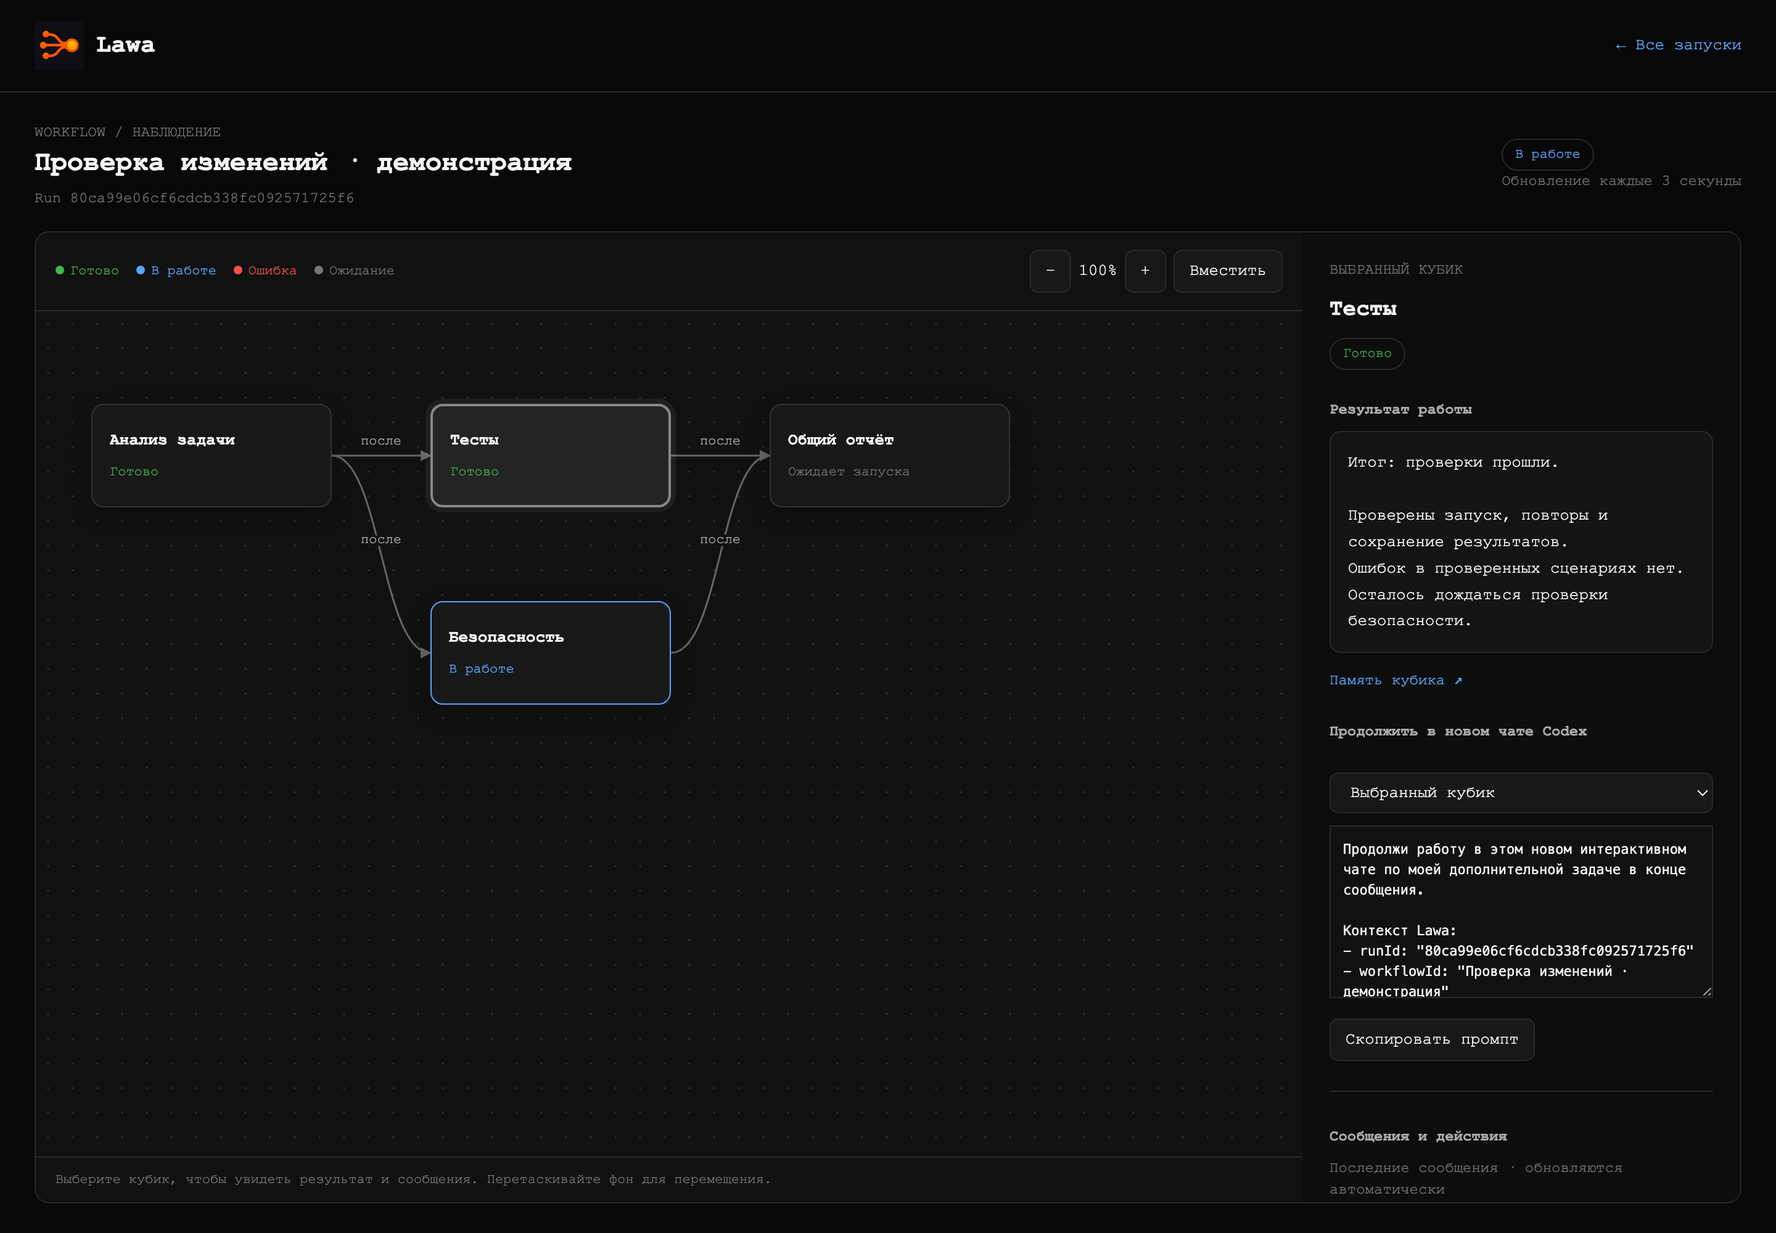
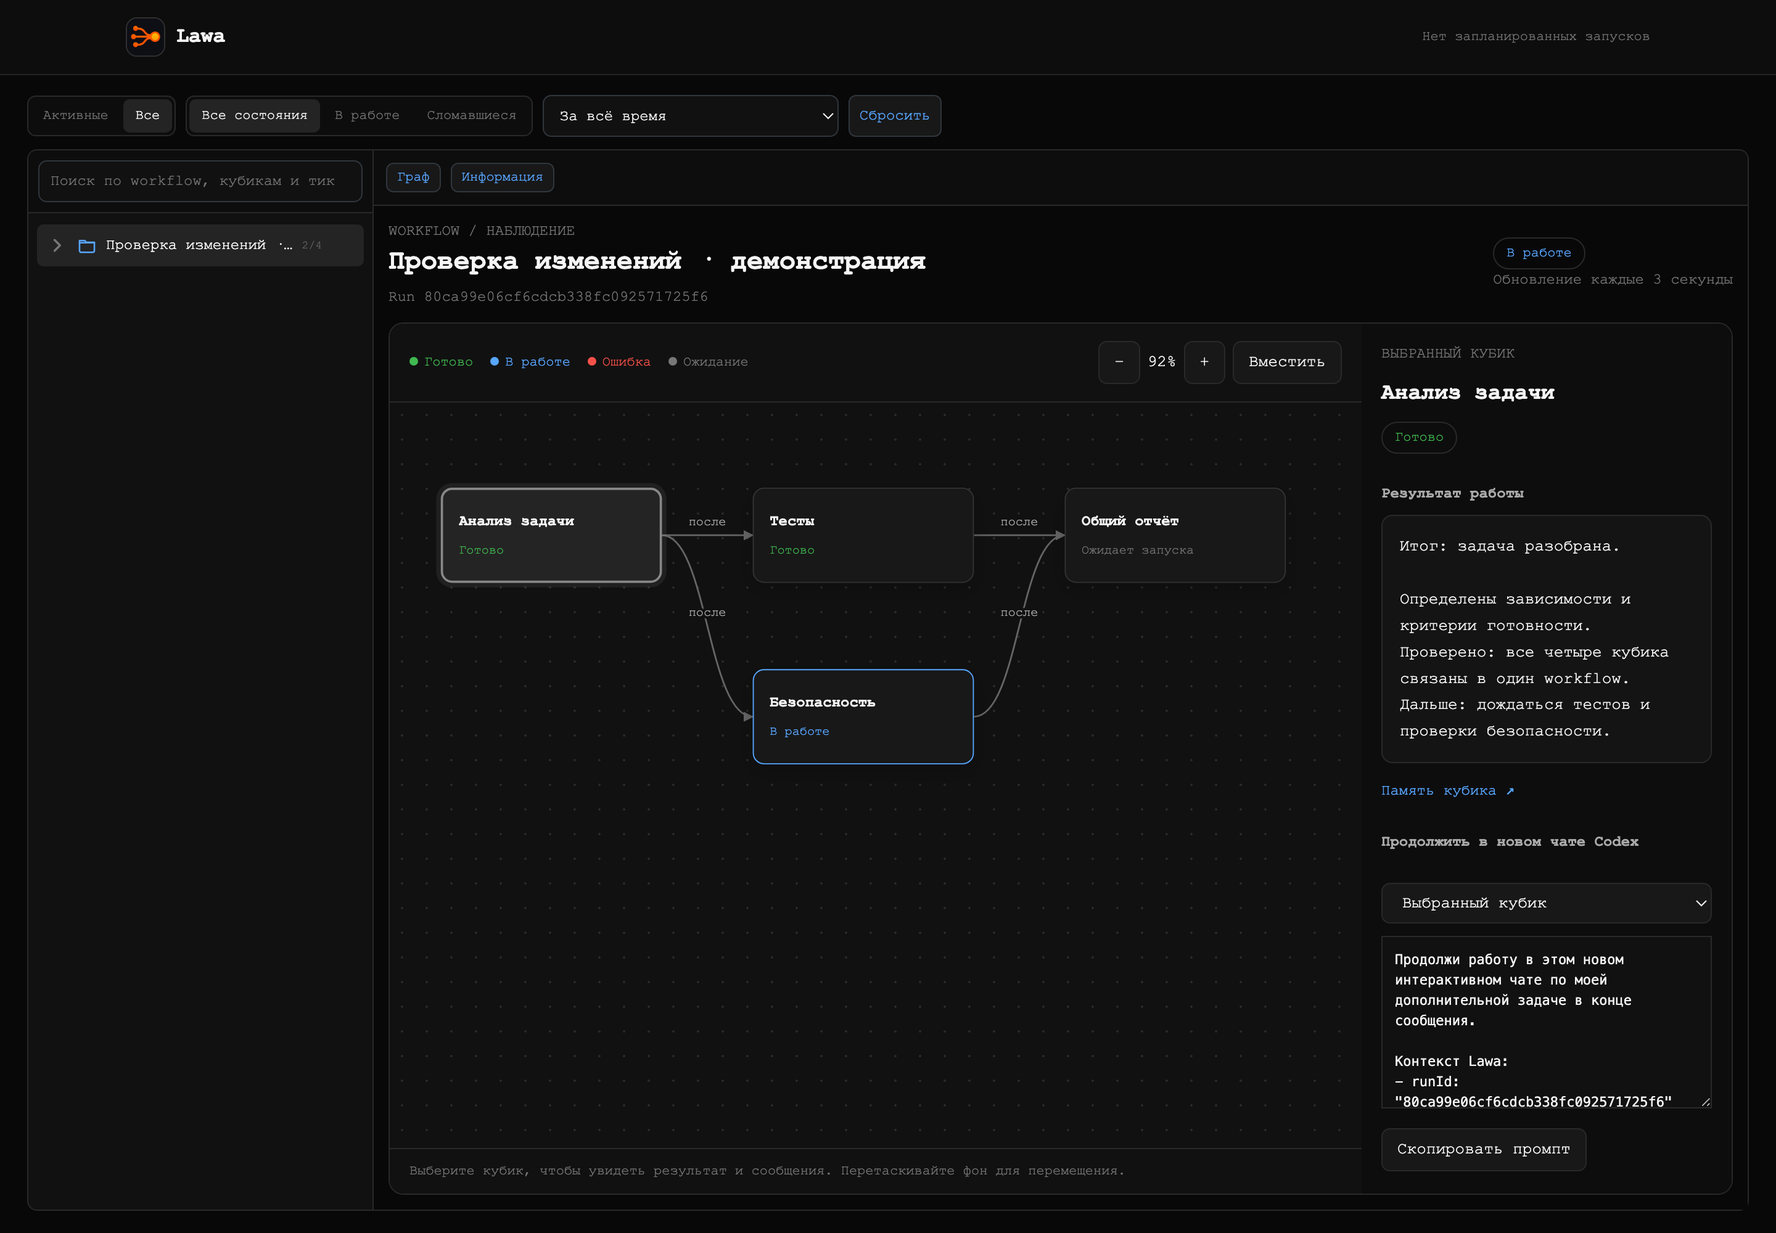
Show interactive workflow graph on the main dashboard

diff --git a/internal/dashboard/dashboard.html b/internal/dashboard/dashboard.html
@@ -22,6 +22,13 @@
     .schedule-backdrop{position:fixed;inset:0;z-index:30;background:#0009}.schedule-panel{position:fixed;z-index:31;top:0;right:0;width:min(460px,100vw);height:100vh;border-left:1px solid #303030;background:#0d0d0d;box-shadow:-18px 0 50px #000b;display:flex;flex-direction:column}.schedule-panel-header{display:flex;align-items:center;gap:12px;padding:17px 18px;border-bottom:1px solid var(--line)}.schedule-heading{min-width:0;flex:1}.schedule-heading h2{margin:0;color:var(--text);font-size:18px;line-height:1.3}.schedule-count{color:var(--muted);font-size:10px}.schedule-close{width:30px;height:30px;min-width:30px;min-height:30px;flex:0 0 30px;padding:0;justify-content:center;font-size:17px;line-height:1}.schedule-list{list-style:none;margin:0;padding:5px 18px 32px;overflow:auto}.schedule-item{padding:14px 0;border-bottom:1px solid #242424}.schedule-item:last-child{border-bottom:0}.schedule-item-top{display:flex;align-items:baseline;justify-content:space-between;gap:14px}.schedule-workflow{min-width:0;overflow-wrap:anywhere;font-size:12px;font-weight:700}.schedule-relative{flex:0 0 auto;color:#9bd0ff;font-size:10px}.schedule-relative.overdue{color:#ffb86b}.schedule-absolute{display:block;margin-top:5px;color:#aaa;font-size:10px}.schedule-details{display:block;margin-top:3px;color:var(--muted);font-size:9px;line-height:1.5;overflow-wrap:anywhere}.drawer-open{overflow:hidden}
     .trace-backdrop{position:fixed;inset:0;background:#0008;z-index:20}.trace-panel{position:fixed;z-index:21;top:0;right:0;width:min(720px,92vw);height:100vh;background:#0d0d0d;border-left:1px solid var(--line);box-shadow:-18px 0 50px #000a;display:flex;flex-direction:column}.trace-header{display:flex;align-items:flex-start;gap:12px;padding:16px;border-bottom:1px solid var(--line)}.trace-heading{min-width:0;flex:1}.trace-heading h2{font-size:16px;line-height:1.3;margin:0}.trace-status,.trace-note{display:block;color:var(--muted);font-size:10px;margin-top:3px}.trace-note{color:#b58b55}.trace-close{font-size:18px;min-width:32px;justify-content:center}.trace-list{padding:13px 16px 40px;overflow:auto;display:flex;flex-direction:column;gap:9px}.trace-item{border:1px solid var(--line);border-radius:7px;background:#131313;padding:9px 11px}.trace-item-header{display:flex;justify-content:space-between;gap:12px;color:var(--muted);font-size:10px;margin-bottom:6px}.trace-item pre{margin:0;color:#ddd;font-size:12px;line-height:1.5;white-space:pre-wrap;overflow-wrap:anywhere}.trace-empty{color:var(--muted);padding:30px;text-align:center}.hidden{display:none!important}
     @media(max-width:720px){.app-header-inner{padding:9px 12px;gap:10px}.brand{gap:7px}.brand-name{font-size:15px}.environment-pill{display:none}.next-run-pill{max-width:72vw;padding-left:9px}.next-run-workflow{font-size:10px}.next-run-time{font-size:9px}main{padding:12px}.top-controls{flex-wrap:wrap}.period-filter{width:100%}.pagination{order:5;width:100%;justify-content:flex-start;margin-left:0}.inspector-body{grid-template-columns:1fr;grid-template-rows:minmax(120px,45%) minmax(0,1fr)}.inspector-tree{border-right:0;border-bottom:1px solid var(--line)}.inspector-details{min-height:0;padding:18px 14px}.children{margin-left:7px;padding-left:7px}.fact-grid{grid-template-columns:1fr;gap:2px}.fact-grid dd{margin-bottom:8px}.trace-panel{width:100vw}}
+  /* Граф занимает правую панель; iframe живёт вне заменяемого polling-контейнера. */
+    main{max-width:none}.inspector-body{grid-template-columns:280px minmax(0,1fr)}
+    .inspector-details.graph-mode{display:flex;flex-direction:column;padding:0;overflow:hidden}
+    .inspector-view{display:flex;gap:8px;padding:10px;border-bottom:1px solid var(--line)}
+    .graph-slot{flex:1;min-height:0}.graph-mode .inspector-detail{display:none}
+    .graph-frame{position:fixed;border:0;background:var(--bg);z-index:1}
+    @media(max-width:720px){.inspector-body{grid-template-columns:1fr;grid-template-rows:150px minmax(0,1fr)}}
   </style>
 </head>
 <body data-refresh="{{.Refresh}}"><div data-dashboard-content>
@@ -57,7 +64,7 @@
         <form class="inspector-search" method="get" data-search-form><input type="hidden" name="view" value="{{.Filter.Scope}}"><input type="hidden" name="states" value="{{.Filter.States}}"><input type="hidden" name="root" value="{{.Filter.RootID}}"><input type="hidden" name="period" value="{{.Filter.Period}}"><label><span class="sr-only">Поиск</span><input class="control" type="search" name="q" value="{{.Filter.Query}}" placeholder="Поиск по workflow, кубикам и тикетам…" maxlength="300" data-search-input></label></form>
         <div class="tree-scroll"><ul class="workflows">{{if .Filter.Focused}}<li class="workflow-item"><button class="tree-row parent-row" type="button" data-root-target="{{.Filter.FocusParentID}}"><svg class="node-icon folder-icon" viewBox="0 0 24 24" fill="none" stroke="currentColor" stroke-width="1.8" stroke-linecap="round" stroke-linejoin="round" aria-hidden="true"><path d="M3.5 6.5h6l2 2h9v9.5a2 2 0 0 1-2 2h-13a2 2 0 0 1-2-2z"></path><path d="M3.5 9h17"></path></svg><span class="tree-label">../</span></button></li>{{end}}{{range .Roots}}{{template "run" .}}{{end}}</ul>{{if not .Roots}}<div class="empty inspector-empty">{{.EmptyMessage}}</div>{{end}}</div>
       </section>
-      <section class="inspector-details" aria-live="polite">{{if .Roots}}{{range .Roots}}{{template "run-details" .}}{{end}}{{else}}<div class="empty inspector-empty">Нет выбранного workflow.</div>{{end}}</section>
+      <section class="inspector-details" aria-live="polite"><nav class="inspector-view hidden" data-inspector-view aria-label="Вид workflow"><button class="action" data-workflow-view="graph">Граф</button><button class="action" data-workflow-view="info">Информация</button></nav><div class="graph-slot hidden" data-graph-slot></div>{{if .Roots}}{{range .Roots}}{{template "run-details" .}}{{end}}{{else}}<div class="empty inspector-empty">Нет выбранного workflow.</div>{{end}}</section>
     </div>
   </div>{{else}}<div class="empty">{{.EmptyMessage}}</div>{{end}}
 </main>
@@ -72,6 +79,7 @@
   <header class="trace-header"><div class="trace-heading"><h2 data-trace-title>Работа агента</h2><span class="trace-status" data-trace-status>Ожидание данных…</span><span class="trace-note">Приватный вывод: сообщения и команды могут содержать секреты.</span></div><button class="action trace-close" type="button" data-trace-close aria-label="Закрыть">×</button></header>
   <div class="trace-list" data-trace-list><div class="trace-empty">Выберите выполняющийся шаг.</div></div>
 </aside>
+<iframe class="graph-frame hidden" data-graph-frame title="Интерактивный граф выбранного workflow"></iframe>
 <script>
   const key='lawa-dashboard-open:';
   const searchActive={{.Filter.HasActiveQuery}};
@@ -108,16 +116,50 @@
   // Выбранный узел хранится вне заменяемого polling-контейнера. После обновления
   // серверных данных инспектор возвращает прежний workflow или кубик, если он всё
   // ещё проходит фильтр; иначе безопасно выбирает первый доступный узел.
+  let workflowView='graph';
+  const graphFrame=document.querySelector('[data-graph-frame]');
+  // Постоянный iframe сохраняет свой документ при замене dashboard через polling.
+  // Его границы повторяют пустую область панели; он не перехватывает вкладки,
+  // фильтры и модальные окна. Скрытый граф выгружается, прекращая его polling.
+  const positionGraph=()=>{
+    const slot=document.querySelector('[data-graph-slot]:not(.hidden)');
+    if(!slot)return;
+    const rect=slot.getBoundingClientRect();
+    Object.assign(graphFrame.style,{left:rect.left+'px',top:rect.top+'px',width:rect.width+'px',height:rect.height+'px'});
+  };
+  const graphObserver=new ResizeObserver(positionGraph);
+  window.addEventListener('resize',positionGraph);
+  window.addEventListener('scroll',positionGraph,true);
+  const showWorkflowGraph=(root,detail)=>{
+    const panel=root.querySelector('.inspector-details'), tabs=root.querySelector('[data-inspector-view]'), slot=root.querySelector('[data-graph-slot]');
+    const runID=detail?.dataset.inspectorDetail?.startsWith('run:')&&detail.dataset.inspectorDetail.slice(4);
+    const available=runID&&location.pathname!=='/preview';
+    const active=available&&workflowView==='graph';
+    tabs?.classList.toggle('hidden',!available);slot?.classList.toggle('hidden',!active);
+    panel?.classList.toggle('graph-mode',!!active);graphFrame.classList.toggle('hidden',!active);
+    root.querySelectorAll('[data-workflow-view]').forEach(button=>{
+      button.setAttribute('aria-pressed',String(button.dataset.workflowView===workflowView));
+      button.onclick=()=>{workflowView=button.dataset.workflowView;selectInspector(root,inspectorSelection);};
+    });
+    graphObserver.disconnect();
+    if(active){
+      const src='/graph/'+encodeURIComponent(runID)+'?embed=1';
+      if(graphFrame.getAttribute('src')!==src)graphFrame.src=src;
+      graphObserver.observe(slot);positionGraph();
+    }else graphFrame.removeAttribute('src');
+  };
   let inspectorSelection='';
   const selectInspector=(root,requested)=>{
     const selectors=[...root.querySelectorAll('[data-inspector-select]')];
     const details=[...root.querySelectorAll('[data-inspector-detail]')];
-    if(!selectors.length||!details.length)return;
+    if(!selectors.length||!details.length){showWorkflowGraph(root,null);return;}
     let selected=selectors.find(item=>item.dataset.inspectorSelect===requested);
     if(!selected)selected=selectors[0];
+    if(inspectorSelection!==selected.dataset.inspectorSelect)workflowView='graph';
     inspectorSelection=selected.dataset.inspectorSelect;
     selectors.forEach(item=>{const active=item===selected;item.classList.toggle('is-selected',active);if(active)item.setAttribute('aria-current','true');else item.removeAttribute('aria-current');});
     details.forEach(item=>item.classList.toggle('hidden',item.dataset.inspectorDetail!==inspectorSelection));
+    showWorkflowGraph(root,details.find(item=>item.dataset.inspectorDetail===inspectorSelection));
   };
   const changeRoot=id=>{const target=new URL(location.href);if(id)target.searchParams.set('root',id);else target.searchParams.delete('root');target.searchParams.delete('page');location.assign(target);};
   const panel=document.querySelector('[data-trace-panel]');

diff --git a/internal/dashboard/graph.html b/internal/dashboard/graph.html
@@ -4,6 +4,8 @@
 /* Общая палитра dashboard: нейтральные поверхности, цвет обозначает статус. */
 :root{color-scheme:dark;--bg:#080808;--surface:#111;--button:#181818;--button-hover:#222;--line:#292929;--text:#f5f5f5;--muted:#777;--link:#58a6ff;--red:#f85149;--green:#3fb950}
 *{box-sizing:border-box}body{margin:0;background:var(--bg);color:var(--text);font:13px/1.45 Consolas,"Courier New",monospace}button,select,a{font:inherit}button,select{color:inherit;background:var(--button);border:1px solid var(--line);border-radius:7px;padding:7px 12px;cursor:pointer}button:hover,a:hover{border-color:#484f58}button:focus-visible,a:focus-visible,select:focus-visible{outline:2px solid var(--link);outline-offset:3px}a{color:var(--link);text-decoration:none}header{height:75px;border-bottom:1px solid var(--line);display:flex;align-items:center;justify-content:space-between;padding:0 28px;gap:16px}.brand{color:var(--text);display:flex;align-items:center;gap:10px;font-size:20px;font-weight:700}.brand img{width:40px;height:40px;object-fit:contain}.subtle{color:var(--muted);font-size:12px}h1{font-size:22px;margin:0 0 4px;font-weight:600}h2{font-size:18px;margin:0;overflow-wrap:anywhere}h3{font-size:12px;color:#aaa;margin:24px 0 8px}main{height:calc(100vh - 75px);display:flex;flex-direction:column;padding:24px 28px;gap:18px}.heading{display:flex;justify-content:space-between;align-items:center;gap:12px}.workspace{min-height:0;flex:1;display:grid;grid-template-columns:minmax(0,1fr) 355px;border:1px solid var(--line);border-radius:12px;overflow:hidden}.graph-area{min-width:0;display:flex;flex-direction:column;background:#111}.toolbar{display:flex;align-items:center;justify-content:space-between;gap:12px;padding:14px 16px;border-bottom:1px solid var(--line)}.controls{display:flex;gap:6px;align-items:center}.legend{display:flex;gap:14px;font-size:11px;color:#aaa}.dot{display:inline-block;width:7px;height:7px;border-radius:50%;background:currentColor;margin-right:5px}.good{color:var(--green)}.busy{color:var(--link)}.bad{color:var(--red)}.muted{color:var(--muted)}.viewport{position:relative;flex:1;min-height:220px;overflow:auto;background-image:radial-gradient(#292929 1px,transparent 1px);background-size:20px 20px;touch-action:pan-x pan-y}.canvas{position:relative;transform-origin:0 0}.stage{position:relative}.edges{position:absolute;inset:0;overflow:visible;pointer-events:none}.edge{fill:none;stroke:#666;stroke-width:1.5}.edge-label{fill:#aaa;font-size:11px;paint-order:stroke;stroke:#111;stroke-width:5px;stroke-linejoin:round}.cube{position:absolute;width:195px;height:84px;padding:12px 14px;text-align:left;display:flex;flex-direction:column;justify-content:center;gap:8px;background:#181818;box-shadow:0 6px 20px #0003;border-color:#333;border-radius:10px}.cube strong{font-size:13px;color:var(--text);white-space:nowrap;overflow:hidden;text-overflow:ellipsis}.cube small{font-size:11px}.cube.selected{border:2px solid #888;background:#242424;box-shadow:0 0 0 4px #ffffff10}.cube[data-state=running],.cube[data-state=waiting_for_approval]{border-color:var(--link)}.cube[data-state=failed],.cube[data-state=cancelled]{border-color:var(--red)}.cube[data-state=skipped]{border-style:dashed;opacity:.7}.hint{padding:10px 16px;color:var(--muted);font-size:11px;border-top:1px solid var(--line)}.details{overflow:auto;padding:22px;background:#0d0d0d;min-width:0}.status{display:inline-flex;align-items:center;border:1px solid var(--line);border-radius:20px;padding:4px 10px;font-size:11px;white-space:nowrap}.detail-top{display:flex;flex-direction:column;align-items:flex-start;gap:10px}select{width:100%;margin-top:16px}.result{background:#141414;border:1px solid var(--line);border-radius:9px;padding:14px;white-space:pre-wrap;overflow-wrap:anywhere;font-size:13px;line-height:1.65}.result.good{color:var(--text)}.result.bad{background:#141414;border-color:var(--line);color:var(--text)}.result.muted{background:#141414;border-color:var(--line);color:var(--text)}.note{color:#bbb;white-space:pre-wrap;overflow-wrap:anywhere}.facts{font-size:11px;color:var(--muted);white-space:pre-wrap;overflow-wrap:anywhere}.links{display:flex;gap:12px;margin-top:14px;font-size:12px}.messages{border-top:1px solid var(--line);margin-top:24px;padding-top:4px}.message{margin:8px 0;padding:10px;background:#131313;border-radius:7px}.message small{color:var(--muted);font-size:10px}.message pre{white-space:pre-wrap;overflow-wrap:anywhere;font:12px/1.5 Consolas,"Courier New",monospace;margin:6px 0 0}.error{color:var(--red)}.hidden{display:none!important}@media(max-width:850px){header{padding:0 14px}main{padding:16px 12px;height:auto;min-height:calc(100vh - 75px)}.workspace{grid-template-columns:1fr}.viewport{height:400px;flex:none}.details{border-top:1px solid var(--line)}.legend{display:none}.heading{align-items:flex-start;flex-direction:column}}
+html.embedded header{display:none}html.embedded main{height:100vh;padding:12px;gap:12px}html.embedded .workspace{grid-template-columns:minmax(0,1fr) 300px}html.embedded .details{padding:16px}
+@media(max-width:650px){html.embedded main{height:auto;min-height:100vh}html.embedded .workspace{grid-template-columns:1fr}}
 </style></head><body>
 <header><a class="brand" href="/"><img src="/assets/lawa-logo.png" alt="">Lawa</a><a href="/">← Все запуски</a></header>
 <main><div class="heading"><div><div class="subtle">WORKFLOW / НАБЛЮДЕНИЕ</div><h1>{{.Name}}</h1><div class="subtle">Run {{.ID}}</div></div><div><span class="status" id="run-state"></span><div class="subtle" id="sync" aria-live="polite">Обновление каждые 3 секунды</div></div></div>
@@ -13,6 +15,12 @@
 // Данные — обычный JSON, экранируемый Go html/template. Любой текст агента
 // попадает в DOM только через textContent, без HTML и исполнения Markdown.
 let data = {{.}};
+// Встраивание использует тот же UI и данные, скрывая повторную шапку приложения.
+if(new URLSearchParams(location.search).get('embed')==='1'){
+  document.documentElement.classList.add('embedded');
+  document.getElementById('memory').target='_blank';
+  document.getElementById('memory').rel='noopener';
+}
 const $ = (id) => document.getElementById(id);
 const names = {
   pending: "Ожидает запуска",

diff --git a/README.md b/README.md
@@ -641,3 +641,5 @@ internal/series/      повторяющиеся app-server run
 ### Продолжение в новом чате
 
 В интерактивном графе выберите кубик и нужное посещение. В блоке «Продолжить в новом чате Codex» выберите кубик или весь workflow и скопируйте промпт. Вставьте его в новый чат и заполните дополнительную задачу. Промпт содержит абсолютные пути, ID запуска, выбранного посещения и сессии Codex; агент читает сохранённую историю и память. Новому чату нужен доступ к той же машине и рабочей папке. Это перенос контекста: автоматического `resume` исходного запуска нет.
+
+При выборе workflow слева интерактивный граф сразу отображается справа на главной странице. Вкладка «Информация» показывает сведения и действия запуска. Граф сохраняет выбранный кубик и масштаб при обновлении списка; отдельная страница графа также доступна по прямой ссылке.
